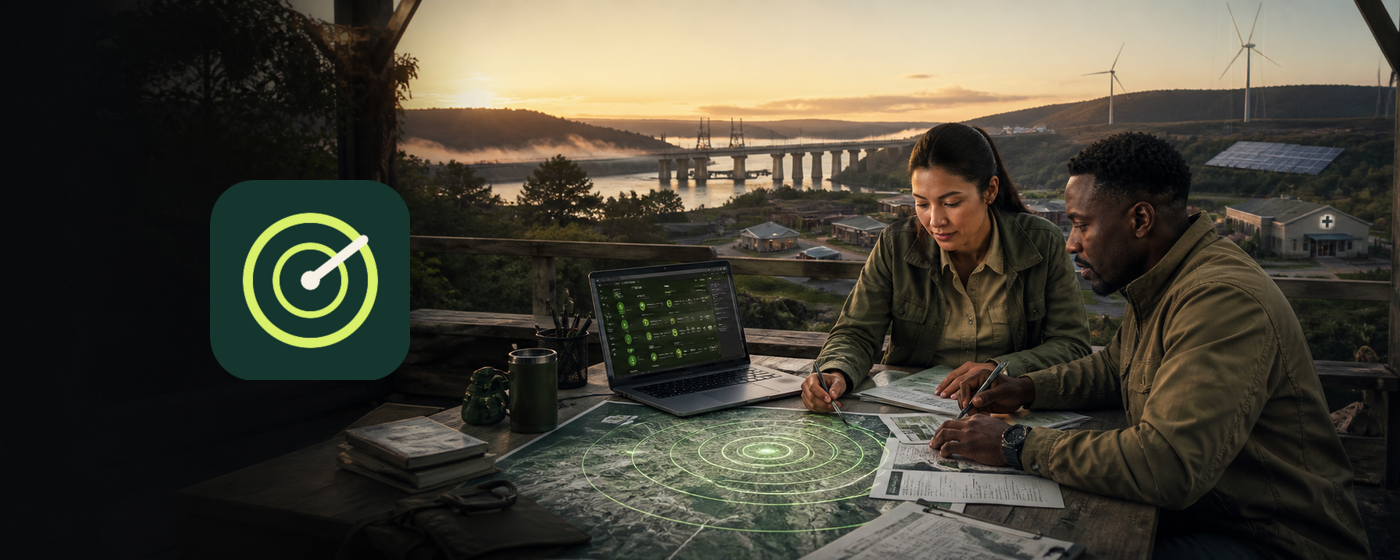
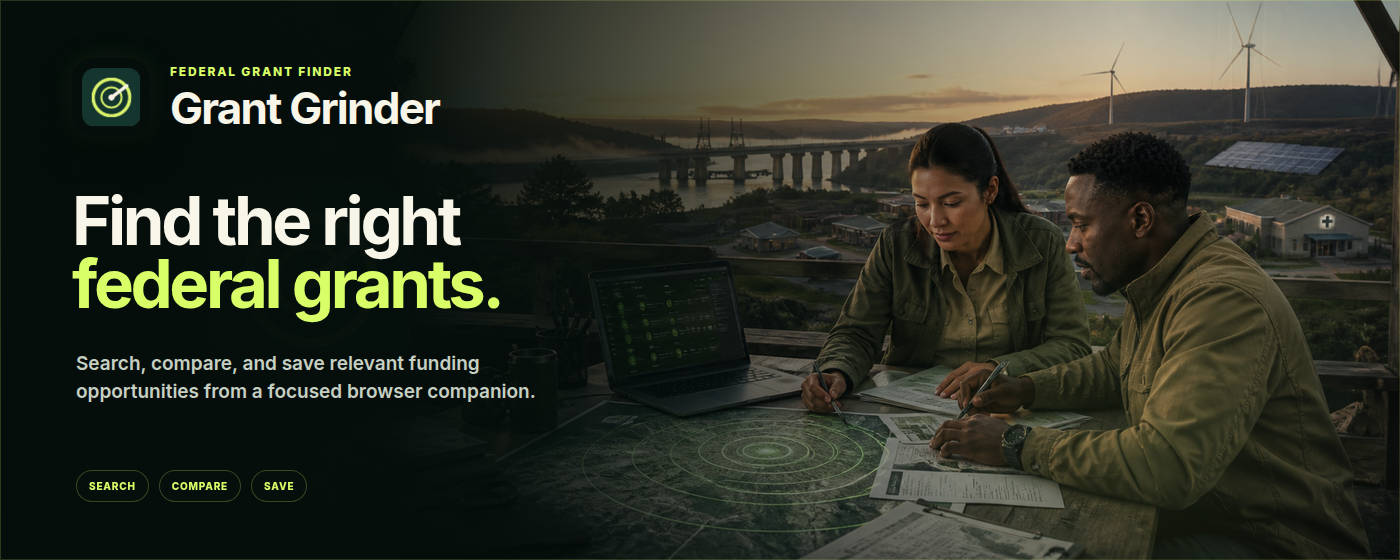
Refresh promotional tiles

diff --git a/store-assets/promo.html b/store-assets/promo.html
@@ -1,0 +1,176 @@
+<!doctype html>
+<html lang="en">
+  <head>
+    <meta charset="UTF-8">
+    <style>
+      :root {
+        --ink: #07100d;
+        --deep: #0e3b31;
+        --lime: #d9ff68;
+        --cream: #f8f5e9;
+        --muted: #c6d0c3;
+      }
+
+      * { box-sizing: border-box; }
+
+      body {
+        margin: 0;
+        padding: 20px;
+        display: grid;
+        gap: 20px;
+        background: #ddd;
+        font-family: Inter, ui-sans-serif, system-ui, -apple-system, BlinkMacSystemFont, "Segoe UI", sans-serif;
+      }
+
+      .promo {
+        position: relative;
+        isolation: isolate;
+        overflow: hidden;
+        color: var(--cream);
+        background-color: var(--ink);
+        background-position: center;
+        background-size: cover;
+      }
+
+      .promo::before {
+        content: "";
+        position: absolute;
+        z-index: 0;
+        inset: 0;
+        background: linear-gradient(90deg, rgba(5, 14, 11, 1) 0%, rgba(5, 14, 11, 0.98) 28%, rgba(5, 14, 11, 0.68) 48%, rgba(5, 14, 11, 0.08) 80%);
+      }
+
+      .promo::after {
+        content: "";
+        position: absolute;
+        z-index: 5;
+        inset: 0;
+        pointer-events: none;
+        border: 1px solid rgba(217, 255, 104, 0.16);
+        background: radial-gradient(circle at 82% 82%, rgba(217, 255, 104, 0.1), transparent 28%);
+      }
+
+      .small {
+        width: 440px;
+        height: 280px;
+        background-image: url("source/promo-small-base.png");
+      }
+
+      .marquee {
+        width: 1400px;
+        height: 560px;
+        background-image: url("source/promo-marquee-base.png");
+      }
+
+      .lockup,
+      .headline,
+      .promise,
+      .features {
+        position: absolute;
+        z-index: 2;
+      }
+
+      .lockup {
+        display: flex;
+        align-items: center;
+      }
+
+      .lockup img {
+        display: block;
+        box-shadow: 0 18px 42px rgba(0, 0, 0, 0.35), 0 0 28px rgba(217, 255, 104, 0.08);
+      }
+
+      .brand-copy { margin-left: 14px; }
+
+      .eyebrow {
+        display: block;
+        margin-bottom: 4px;
+        color: var(--lime);
+        font-size: 9px;
+        font-weight: 850;
+        letter-spacing: 0.15em;
+        text-transform: uppercase;
+      }
+
+      .brand-copy strong {
+        display: block;
+        color: var(--cream);
+        font-size: 27px;
+        line-height: 1;
+        letter-spacing: -0.04em;
+      }
+
+      .headline {
+        margin: 0;
+        max-width: 52%;
+        color: var(--cream);
+        font-size: 35px;
+        line-height: 0.98;
+        letter-spacing: -0.05em;
+      }
+
+      .headline em { color: var(--lime); font-style: normal; }
+
+      .promise {
+        margin: 0;
+        max-width: 50%;
+        color: var(--muted);
+        font-weight: 650;
+      }
+
+      .features {
+        display: flex;
+        gap: 10px;
+      }
+
+      .features span {
+        padding: 9px 12px;
+        border: 1px solid rgba(217, 255, 104, 0.24);
+        border-radius: 999px;
+        color: var(--lime);
+        background: rgba(7, 16, 13, 0.7);
+        font-size: 10px;
+        font-weight: 800;
+        letter-spacing: 0.08em;
+        text-transform: uppercase;
+        backdrop-filter: blur(8px);
+      }
+
+      .small::before { background: linear-gradient(90deg, rgba(5, 14, 11, 1) 0%, rgba(5, 14, 11, 0.98) 43%, rgba(5, 14, 11, 0.5) 66%, rgba(5, 14, 11, 0.04) 100%); }
+      .small .lockup { left: 22px; top: 20px; }
+      .small .lockup img { width: 48px; height: 48px; border-radius: 14px; }
+      .small .headline { left: 22px; top: 96px; }
+      .small .promise { left: 23px; bottom: 25px; max-width: 205px; font-size: 11px; line-height: 1.4; }
+      .small .features { display: none; }
+
+      .marquee .lockup { left: 72px; top: 58px; }
+      .marquee .lockup img { width: 78px; height: 78px; border-radius: 22px; }
+      .marquee .brand-copy { margin-left: 20px; }
+      .marquee .eyebrow { margin-bottom: 7px; font-size: 12px; }
+      .marquee .brand-copy strong { font-size: 44px; }
+      .marquee .headline { left: 72px; top: 190px; max-width: 575px; font-size: 67px; line-height: 0.94; }
+      .marquee .promise { left: 76px; top: 350px; max-width: 470px; font-size: 19px; line-height: 1.45; }
+      .marquee .features { left: 76px; bottom: 58px; }
+    </style>
+  </head>
+  <body>
+    <section class="promo small">
+      <div class="lockup">
+        <img src="../extension/icons/icon-128.png" alt="">
+        <div class="brand-copy"><span class="eyebrow">Federal grant finder</span><strong>Grant Grinder</strong></div>
+      </div>
+      <h1 class="headline">Find grants<br>that <em>fit.</em></h1>
+      <p class="promise">Search federal opportunities without leaving the page.</p>
+    </section>
+
+    <section class="promo marquee">
+      <div class="lockup">
+        <img src="../extension/icons/icon-128.png" alt="">
+        <div class="brand-copy"><span class="eyebrow">Federal grant finder</span><strong>Grant Grinder</strong></div>
+      </div>
+      <h1 class="headline">Find the right<br><em>federal grants.</em></h1>
+      <p class="promise">Search, compare, and save relevant funding opportunities from a focused browser companion.</p>
+      <div class="features"><span>Search</span><span>Compare</span><span>Save</span></div>
+    </section>
+  </body>
+</html>
